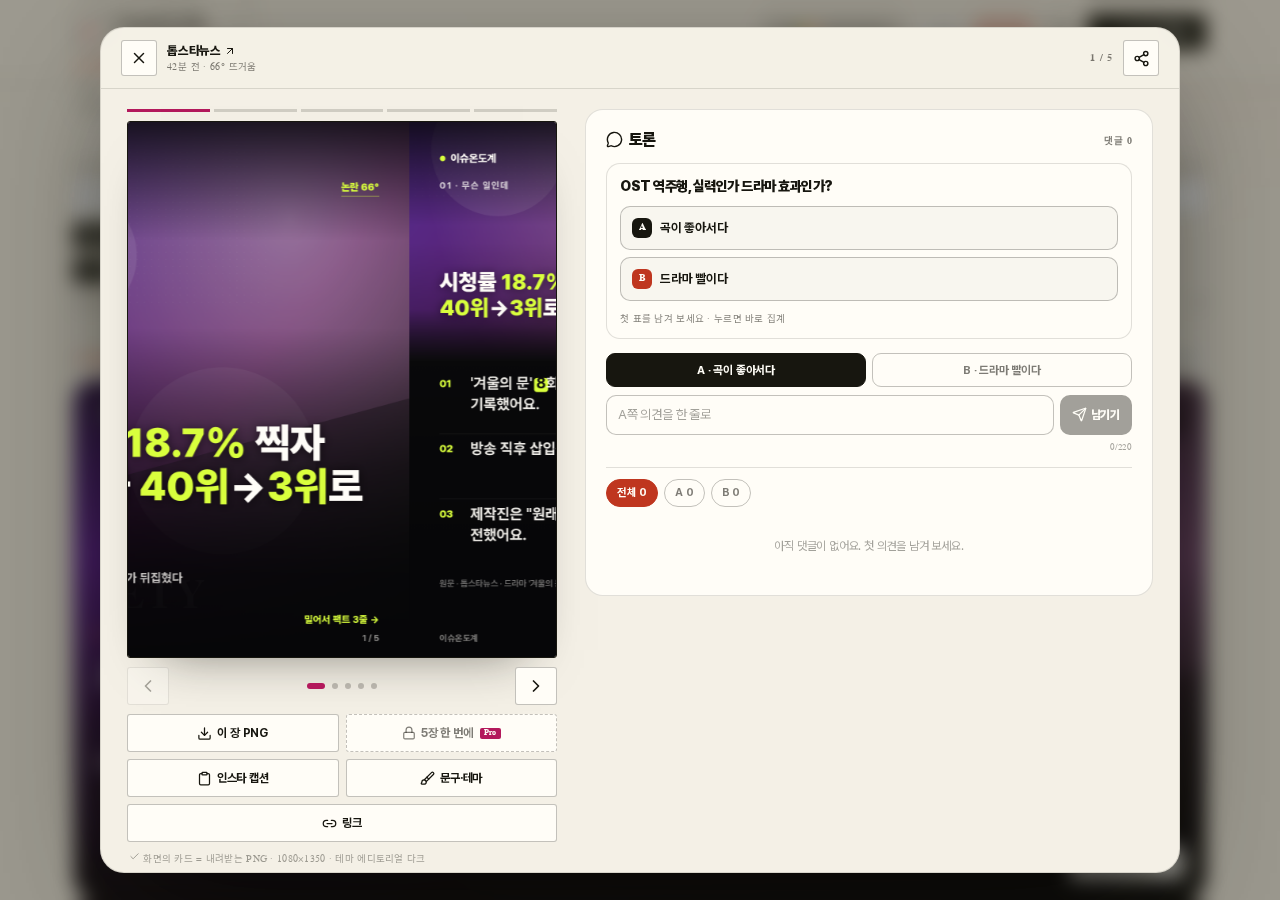
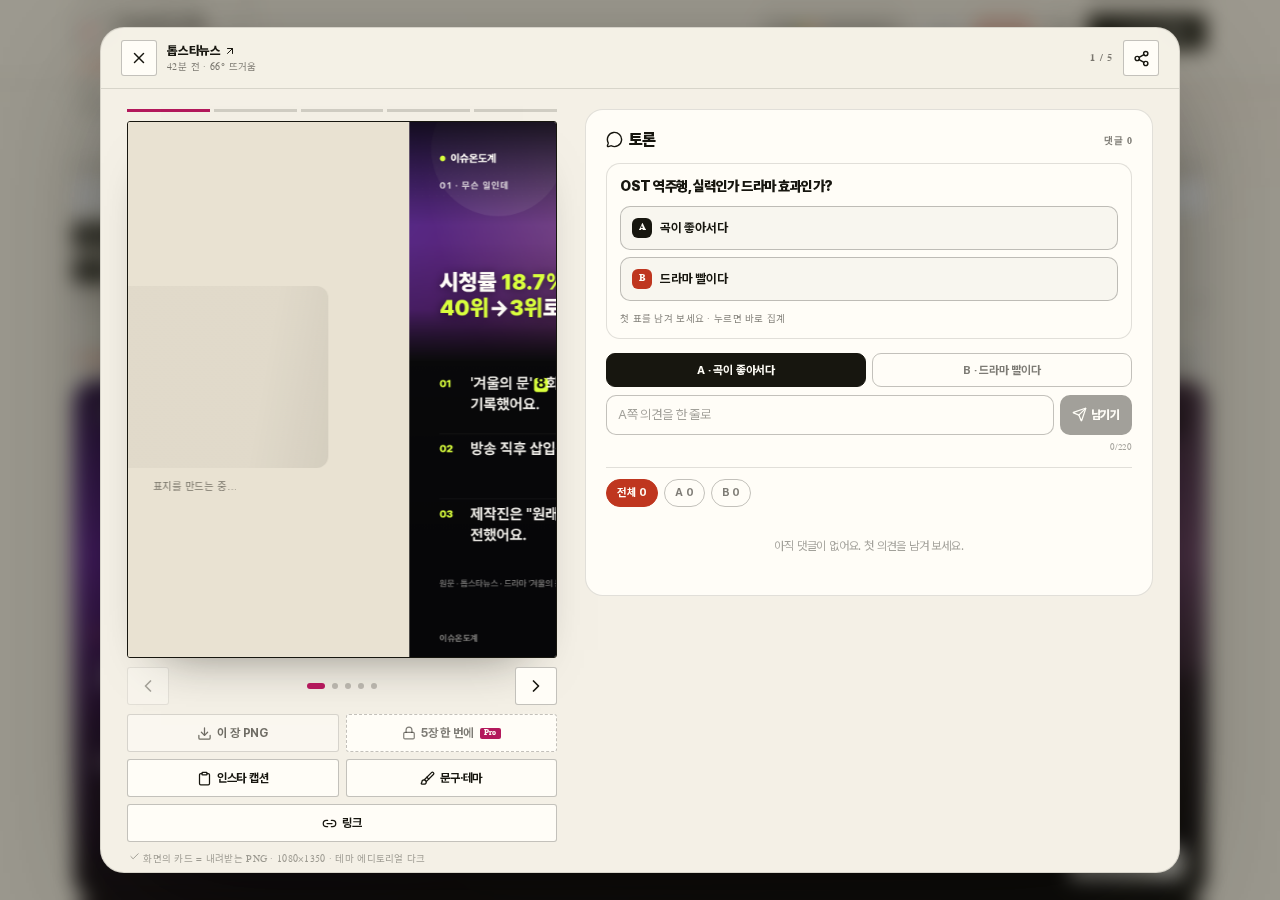
polish: 데스크톱 캡션 칸 620px — 6단 캡션 전체가 한눈에

Changed region(s): [[0.0938, 0.1244, 0.3438, 0.7467], [0.1562, 0.8089, 0.2188, 0.84]]

diff --git a/src/cardnews.css b/src/cardnews.css
@@ -809,9 +809,9 @@
     overflow-y: auto;
   }
 
-  /* 데스크톱은 캡션 전체(6단)가 한눈에 보이게 — 800자 넘는 글을 250px 칸에서 고치지 않도록. */
+  /* 데스크톱은 캡션 전체(6단, 800~1,000자)가 한눈에 보이게 — 좁은 칸에서 800자를 고치지 않도록. */
   .cn-caption textarea {
-    min-height: 430px;
+    min-height: 620px;
     font-size: 12.5px;
   }
 }
